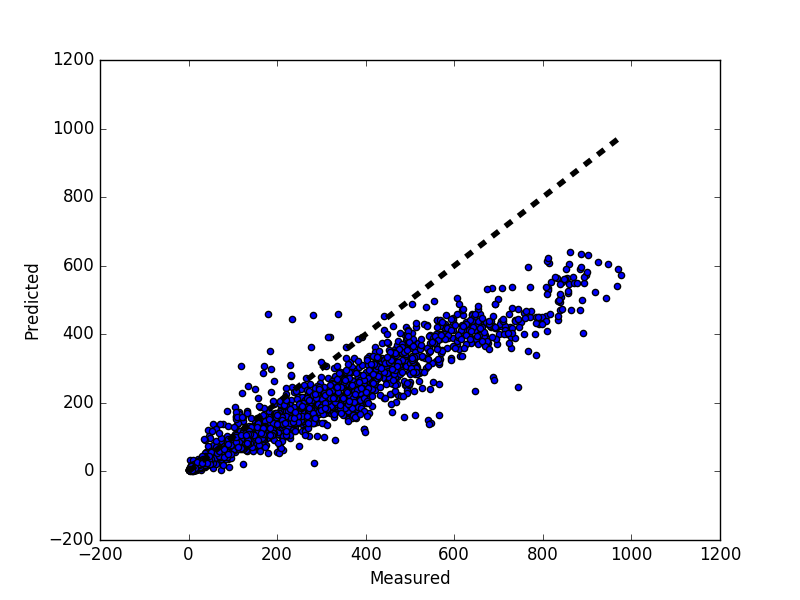
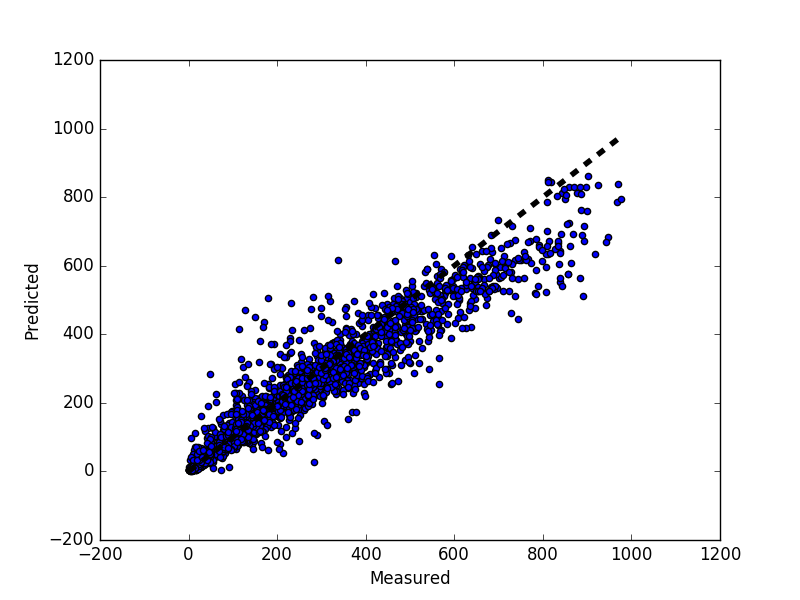
adding the year feature

diff --git a/BERSAC_Guillaume_Code.py b/BERSAC_Guillaume_Code.py
@@ -11,7 +11,13 @@ import matplotlib.pyplot as plt
 
 FILE_NAME_TRAIN = 'data.csv'
 FILE_NAME_TEST = 'test.csv'
+
+# Number of cluster to create for splitting the `hour` feature.
 NB_HOUR_CLUSTER = 12
+
+# Set to true if you want to train the model with all train data and generate
+# the solution to submit on kaggle
+OUTPUT_KAGGLE = False
 
 ################################################################################
 # Formatting data                                                              #
@@ -24,8 +30,9 @@ def formatData(data):
 		dayOfYear  = date.timetuple().tm_yday
 		hour = int(s[10:13])
 		weekDay = date.weekday()
-		return (hour, dayOfYear, weekDay)
-	data['hour'], data['dayOfYear'], data['weekDay'] = zip(*data["datetime"].map(splitDateTime))
+		year = date.year
+		return (hour, dayOfYear, weekDay, year)
+	data['hour'], data['dayOfYear'], data['weekDay'], data['year'] = zip(*data["datetime"].map(splitDateTime))
 	data.drop('datetime', axis=1, inplace=True)
 
 	### Refactor `weekDay` to non-multi-categorial columns
@@ -89,17 +96,19 @@ rawTestData = pd.read_csv(FILE_NAME_TEST)
 
 trainDS = formatData(rawTrainData) # DS for Data Set
 
-# This is the files which contain the predicting value for kaggle competition
-outputX = formatData(rawTestData).as_matrix()
+# This is the files which contain the data from which to predict for kaggle competition
+outputDS = formatData(rawTestData)
 
 ### Cluster hours
 # compute model
 KMean = cluster.KMeans(n_clusters=NB_HOUR_CLUSTER)
 KMean.fit(trainDS['hour'].reshape(-1, 1), trainDS['count'].reshape(-1, 1))
 
-def refatorHour2(data):
+def refatorHour(data):
 	"""
-	Transform an hour to a tuple with the cluster it belongs to set to one.
+	Transform `hour` to multiple series. One serie for each NB_HOUR_CLUSTER.
+	For one row, the value of the serie which number == kmean cluster assignation
+	equal one, 0 for others.
 	"""
 	global KMean
 	floatHours = data['hour'].astype('float64')
@@ -109,7 +118,8 @@ def refatorHour2(data):
 		serie = pd.Series(map(lambda x: int(x == i), serie))
 		data[serieName] = serie
 
-refatorHour2(trainDS)
+refatorHour(trainDS)
+refatorHour(outputDS)
 
 ### Refactor trainDS
 # Delete redundant values
@@ -122,16 +132,27 @@ cols = [col for col in trainDS if col != 'count'] + ['count']
 trainDS = trainDS[cols]
 
 # Split dataset
-# for the features
-cols = [col for col in trainDS if col != 'count']
-trainX = trainDS.loc[:trainDS.shape[0] * 4 / 5, cols].as_matrix()
-testX = trainDS.loc[trainDS.shape[0] * 4 / 5:, cols].as_matrix()
 
-# for the result
-trainY = trainDS.loc[:trainDS.shape[0] * 4 / 5, ['count']].as_matrix()
-testY = trainDS.loc[trainDS.shape[0] * 4 / 5 :, ['count']].as_matrix()
+if OUTPUT_KAGGLE:
+	# for the features
+	cols = [col for col in trainDS if col != 'count']
+	trainX = trainDS.loc[:, cols].as_matrix()
+	testX = outputDS.loc[:, cols].as_matrix()
 
-trainDS.to_csv('mytest.csv', index=False)
+	# for the result
+	trainY = trainDS.loc[:, ['count']].as_matrix()
+
+else:
+	# for the features
+	cols = [col for col in trainDS if col != 'count']
+	trainX = trainDS.loc[:trainDS.shape[0] * 4 / 5, cols].as_matrix()
+	testX = trainDS.loc[trainDS.shape[0] * 4 / 5:, cols].as_matrix()
+
+	# for the result
+	trainY = trainDS.loc[:trainDS.shape[0] * 4 / 5, ['count']].as_matrix()
+	testY = trainDS.loc[trainDS.shape[0] * 4 / 5 :, ['count']].as_matrix()
+
+# trainDS.to_csv('mytest.csv', index=False)
 
 ################################################################################
 # Linear regression model                                                      #
@@ -142,22 +163,23 @@ regr = linear_model.LinearRegression()
 regr.fit(trainX, trainY)
 predicted = regr.predict(testX)
 
-### Evaluate accuracy of the computed model
-# The mean square error
-print("### For linear regression")
-print("Residual sum of squares: %.2f"
-      % np.mean((predicted - testY) ** 2))
-# Variance score: 1 is perfect prediction
-print('Variance score: %.2f' % regr.score(testX, testY))
-print("")
+if not OUTPUT_KAGGLE:
+	### Evaluate accuracy of the computed model
+	# The mean square error
+	print("### For linear regression")
+	print("Residual sum of squares: %.2f"
+	      % np.mean((predicted - testY) ** 2))
+	# Variance score: 1 is perfect prediction
+	print('Variance score: %.2f' % regr.score(testX, testY))
+	print("")
 
-### Plot result
-fig, ax = plt.subplots()
-ax.scatter(testY, predicted)
-ax.plot([testY.min(), testY.max()], [testY.min(), testY.max()], 'k--', lw=4)
-ax.set_xlabel('Measured')
-ax.set_ylabel('Predicted')
-fig.savefig('img/final_lr.png')
+	### Plot result
+	fig, ax = plt.subplots()
+	ax.scatter(testY, predicted)
+	ax.plot([testY.min(), testY.max()], [testY.min(), testY.max()], 'k--', lw=4)
+	ax.set_xlabel('Measured')
+	ax.set_ylabel('Predicted')
+	fig.savefig('img/final_lr.png')
 
 ################################################################################
 # Random Forest model                                                          #
@@ -168,28 +190,38 @@ clf = ExtraTreesRegressor(n_estimators=10)
 clf = clf.fit(trainX, np.ravel(trainY))
 predicted = clf.predict(testX)
 
-### Evaluate accuracy of the computed model
-# The mean square error
-print("### For random forest")
-print("Residual sum of squares: %.2f" % np.mean((predicted - testY) ** 2))
-# Variance score: 1 is perfect prediction
-print('Variance score: %.2f' % clf.score(testX, testY))
-print("")
+if not OUTPUT_KAGGLE:
+	### Evaluate accuracy of the computed model
+	# The mean square error
+	print("### For random forest")
+	print("Residual sum of squares: %.2f" % np.mean((predicted - testY) ** 2))
+	# Variance score: 1 is perfect prediction
+	print('Variance score: %.2f' % clf.score(testX, testY))
+	print("")
 
-### Plot result
-fig, ax = plt.subplots()
-ax.scatter(testY, predicted)
-ax.plot([testY.min(), testY.max()], [testY.min(), testY.max()], 'k--', lw=4)
-ax.set_xlabel('Measured')
-ax.set_ylabel('Predicted')
-fig.savefig('img/final_clf.png')
+	### Plot result
+	fig, ax = plt.subplots()
+	ax.scatter(testY, predicted)
+	ax.plot([testY.min(), testY.max()], [testY.min(), testY.max()], 'k--', lw=4)
+	ax.set_xlabel('Measured')
+	ax.set_ylabel('Predicted')
+	fig.savefig('img/final_clf.png')
+
+	### Plot train
+	fig, ax = plt.subplots()
+	ax.scatter(trainY, clf.predict(trainX))
+	ax.plot([trainY.min(), trainY.max()], [trainY.min(), trainY.max()], 'k--', lw=4)
+	ax.set_xlabel('Measured')
+	ax.set_ylabel('Predicted')
+	fig.savefig('img/train_clf.png')
 
 ################################################################################
 # Output for kaggle competition                                                #
 ################################################################################
 
-# ### Output for the kaggle submission
-# df = pd.DataFrame({})
-# df['datetime'] = pd.read_csv(FILE_NAME_TEST)['datetime']
-# df['count'] = pd.Series(predicted)
-# df.to_csv('output.csv', index=False)
+if OUTPUT_KAGGLE:
+	### Output for the kaggle submission
+	df = pd.DataFrame({})
+	df['datetime'] = pd.read_csv(FILE_NAME_TEST)['datetime']
+	df['count'] = pd.Series(predicted)
+	df.to_csv('output.csv', index=False)
